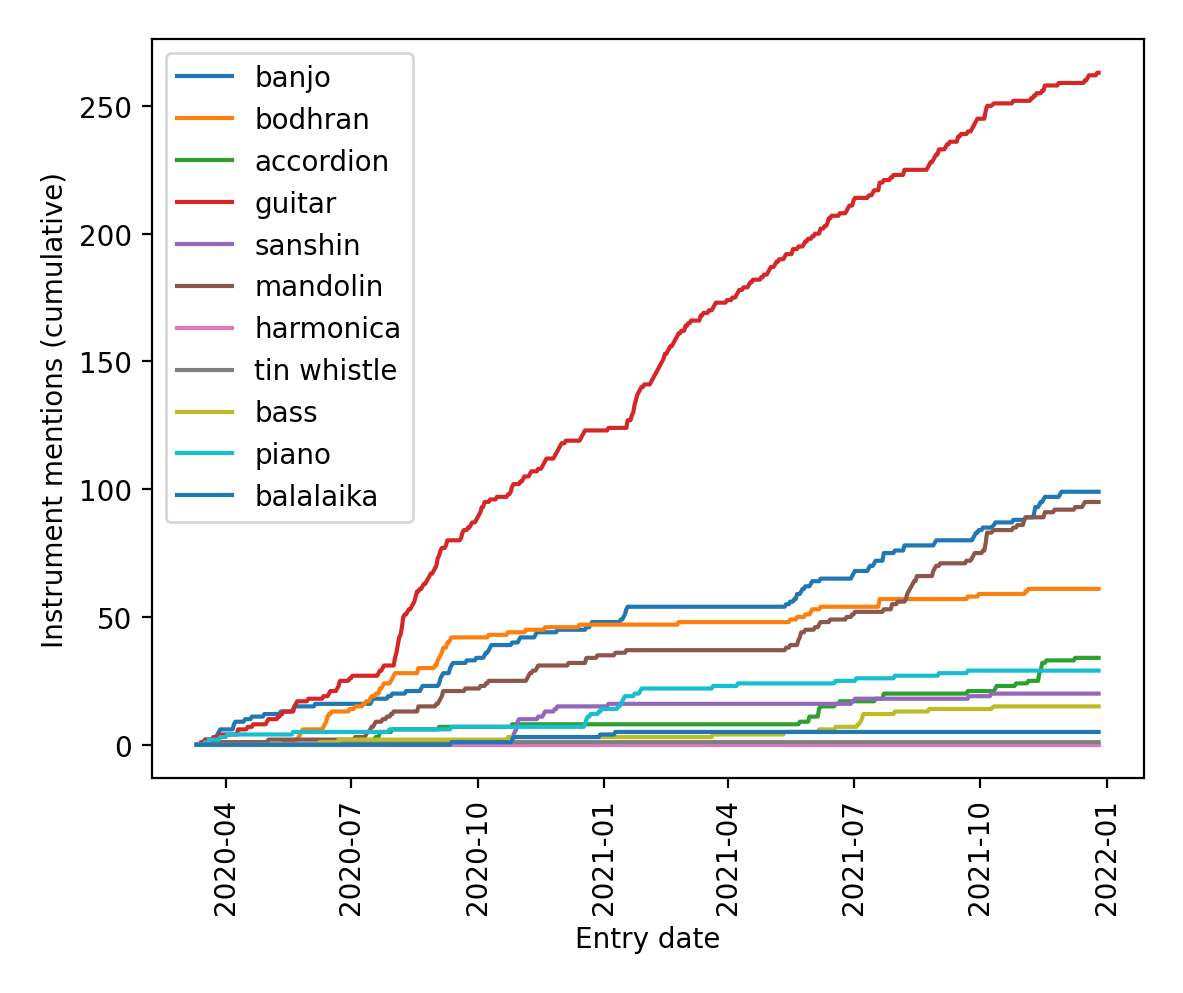
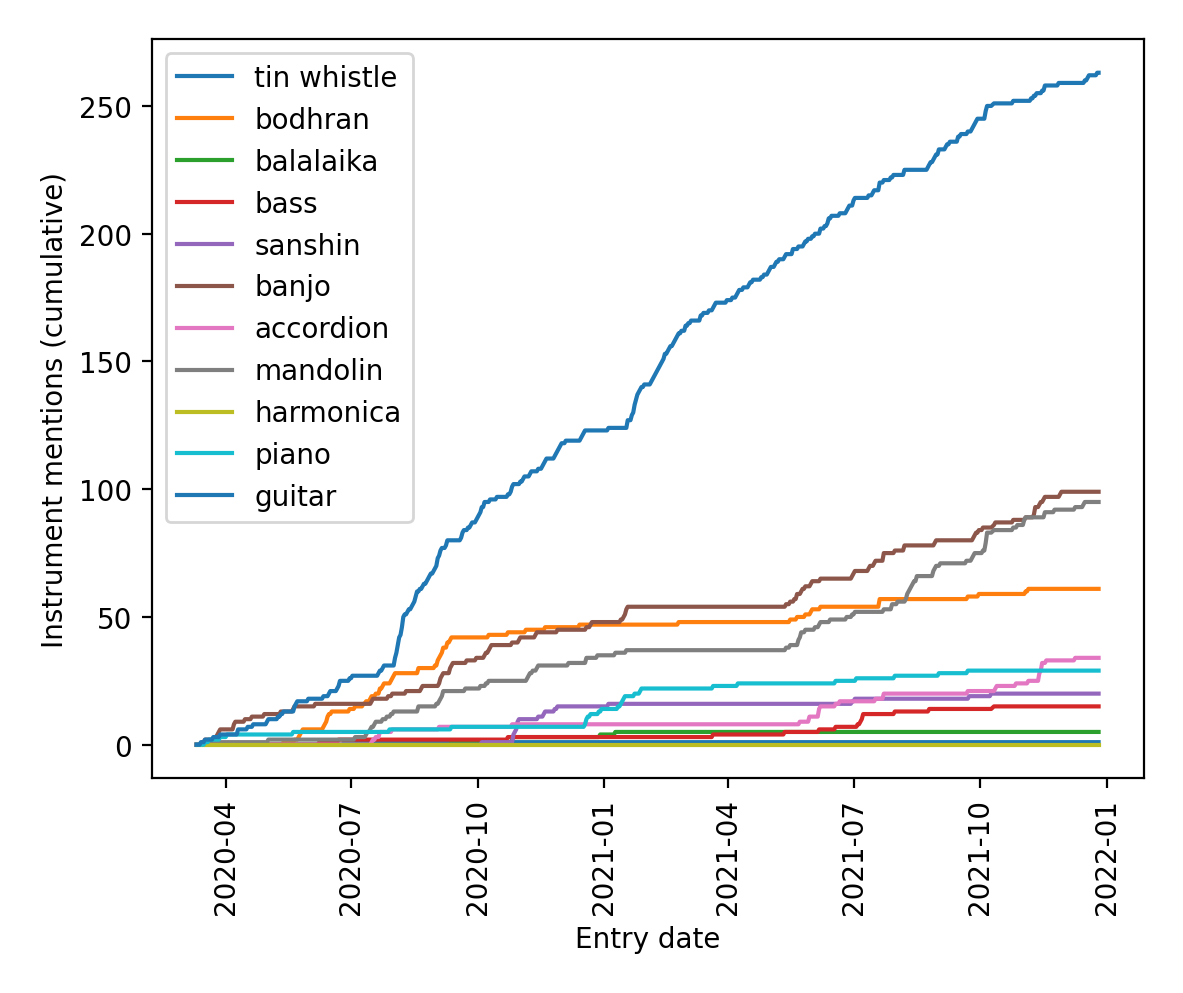
Replace hardcoded lists and file references with commandline parsing

diff --git a/process_journal.py b/process_journal.py
@@ -15,13 +15,27 @@ from nltk.sentiment import SentimentIntensityAnalyzer
 import matplotlib.dates as mdates
 from nltk import ngrams
 from wordcloud import WordCloud
+import argparse
 
-def parse_entries(filePath):
+
+parser = argparse.ArgumentParser()
+parser.add_argument('-journalPath', dest='journalPath', action='store', type=str, required=True, help="Path for Takeout data")
+parser.add_argument('--instrumentsPath', dest='instrumentsPath', action='store', type=str, required=False, help="Path for list of instruments")
+parser.add_argument('--tinnitusKeywordsPath', dest='tinnitusKeywordsPath', action='store', type=str, required=False, help="Path for list of tinnitus keywords")
+parser.add_argument('--stopwordSupplementPath', dest='stopwordSupplementPath', action='store', type=str, required=False, help="Path for stopword supplement list")
+parser.add_argument('--lexicon', default=False, required=False, action='store_true', help="Print lexicon size")
+parser.add_argument('--readability', default=False, required=False, action='store_true', help="Print readability metric")
+parser.add_argument('--sentiment', default=False, required=False, action='store_true', help="Print mean sentence sentiment")
+parser.add_argument('--entryLengths', default=False, required=False, action='store_true', help="Plot entry lengths over time")
+parser.add_argument('--wordcloud', default=False, required=False, action='store_true', help="Generate content word wordcloud")
+
+
+def parse_entries(journalPath):
 	entryDict = {}
 	dateFormat = re.compile(r'\d\d_\d\d_\d\d\.json')
-	for file in os.listdir(filePath):
+	for file in os.listdir(journalPath):
 		if dateFormat.match(os.path.basename(file)):
-			with open(os.path.join(filePath, file), 'r') as f:
+			with open(os.path.join(journalPath, file), 'r') as f:
 				entryPointDictList = json.load(f)['listContent']
 				entryPointList = [point['text'] for point in entryPointDictList]
 				date = datetime.strptime(os.path.splitext(file)[0], '%d_%m_%y')
@@ -54,9 +68,9 @@ def plot_entry_lengths(sortedDates, entryLengths):
 	plt.ylabel("Entry length (characters)")
 	return plt.plot
 
-def get_instrument_frequencies(instrumentSet, entryDict, sortedDates):
+def get_instrument_frequencies(instruments, entryDict, sortedDates):
 	instrumentFrequencyDict = {}
-	for instrument in instrumentSet:
+	for instrument in instruments:
 		instrumentFrequencyList = []
 		for date in sortedDates:
 			entryText = '\n'.join(entryDict[date])
@@ -83,13 +97,16 @@ def get_readability(text):
 	return readability
 
 def get_tokens(text, textName, level='word'):
-	print(f"Getting tokens from {textName}...")
-	if level == 'sent':
+	print(f"Getting {level}-level tokens from {textName}...")
+	if level == 'sentence':
 		tokens = nltk.sent_tokenize(text)
 	else:
 		tokens = nltk.word_tokenize(text)
 	tokens = list(filter(lambda token: token not in string.punctuation, tokens))
 	stopwords = nltk.corpus.stopwords.words("english")
+	if args.stopwordSupplementPath:
+		with open(os.path.abspath(args.stopwordSupplementPath), 'r') as f:
+			stopwords += [line.strip() for line in f]
 	contentTokens = [token for token in tokens if token.lower() not in stopwords]
 	tokenFileName = f'{textName}_{level}_tokens'
 	with open(tokenFileName, 'wb') as tokenFile:
@@ -97,7 +114,7 @@ def get_tokens(text, textName, level='word'):
 	return tokenFileName
 
 def analyse_sentiment(text, textName):
-	with open (f'{textName}_sent_tokens', 'rb') as tokenFile:
+	with open (f'{textName}_sentence_tokens', 'rb') as tokenFile:
 		tokens = pickle.load(tokenFile)
 	sid = SentimentIntensityAnalyzer()
 	negSentimentList = []
@@ -145,60 +162,51 @@ def plot_wordcloud(wordcloud):
 	return plt.plot
 
 if __name__ == "__main__":
-	filePath = os.path.abspath('Takeout/Keep/')
+	args = parser.parse_args()
 
-	entryDict, sortedDates = parse_entries(filePath)
+	entryDict, sortedDates = parse_entries(os.path.abspath(args.journalPath))
 	text = get_text(entryDict)
-
 	textName = 'text'
-	tokenFileName = get_tokens(text, textName)
 
-	instrumentSet = {'piano',
-			 'accordion',
-			 'guitar',
-			 'bass',
-			 'balalaika',
-			 'sanshin',
-			 'mandolin',
-			 'bodhran',
-			 'banjo',
-			 'tin whistle',
-			 'harmonica'}
+	if args.entryLengths:
+		entryLengths = get_entry_lengths(entryDict, sortedDates)
+		plot_entry_lengths(sortedDates, entryLengths)
+		save_figure('entry_lengths')
 
-	entryLengths = get_entry_lengths(entryDict, sortedDates)
-	plot_entry_lengths(sortedDates, entryLengths)
-	save_figure('entry_lengths')
+	if args.instrumentsPath:
+		with open(os.path.abspath(args.instrumentsPath), 'r') as f:
+			instruments = set([line.strip() for line in f])
+		instrumentFrequencyDict = get_instrument_frequencies(instruments, entryDict, sortedDates)
+		plot_instrument_frequencies(sortedDates, instrumentFrequencyDict)
+		save_figure('instrument_frequencies')
 
-	instrumentFrequencyDict = get_instrument_frequencies(instrumentSet, entryDict, sortedDates)
-	plot_instrument_frequencies(sortedDates, instrumentFrequencyDict)
-	save_figure('instrument_frequencies')
+	if args.lexicon:
+		lexicon = get_lexicon(text)
+		print(f"lexicon = {lexicon} words")
 
-	lexicon = get_lexicon(text)
-	print(f"lexicon = {lexicon} words")
+	if args.readability:
+		readability = get_readability(text)
+		print(f"Flesch–Kincaid reading ease score = {readability:.2f}")
 
-	readability = get_readability(text)
-	print(f"Flesch–Kincaid reading ease score = {readability:.2f}")
+	if args.sentiment:
+		tokenFileName = get_tokens(text, textName, level='sentence')
+		sentiment = analyse_sentiment(text, textName)
+		if sentiment > 0:
+			print(f"sentiment = {sentiment} (optimist)")
+		else:
+			print(f"sentiment = {sentiment} (pessimist)")
 
-	textName = 'text'
-	tokenFileName = get_tokens(text, textName, level='sent')
-	sentiment = analyse_sentiment(text, textName)
-	if sentiment > 0:
-		print(f"sentiment = {sentiment} (optimist)")
-	else:
-		print(f"sentiment = {sentiment} (pessimist)")
+	if args.tinnitusKeywordsPath:
+		with open(os.path.abspath(args.tinnitusKeywordsPath), 'r') as f:
+			tinnitusKeywords = set([line.strip() for line in f])
+		tinnitusMentionList = get_tinnitus_mentions(tinnitusKeywords, entryDict, sortedDates)
+		plot_tinnitus_mentions(tinnitusMentionList, tinnitusKeywords, sortedDates)
+		save_figure('tinnitus mentions')
 
-	tinnitusKeywords = {'ears',
-			 'tinnitus',
-			 'ringing',
-			 'ear'}
-
-	tinnitusMentionList = get_tinnitus_mentions(tinnitusKeywords, entryDict, sortedDates)
-	plot_tinnitus_mentions(tinnitusMentionList, tinnitusKeywords, sortedDates)
-	save_figure('tinnitus mentions')
-
-	wordcloud = generate_wordcloud(textName)
-	plot_wordcloud(wordcloud)
-	save_figure('wordcloud')
+	if args.wordcloud:
+		tokenFileName = get_tokens(text, textName)
+		wordcloud = generate_wordcloud(textName)
+		plot_wordcloud(wordcloud)
+		save_figure('wordcloud')
 
 	sys.exit(0)
-
